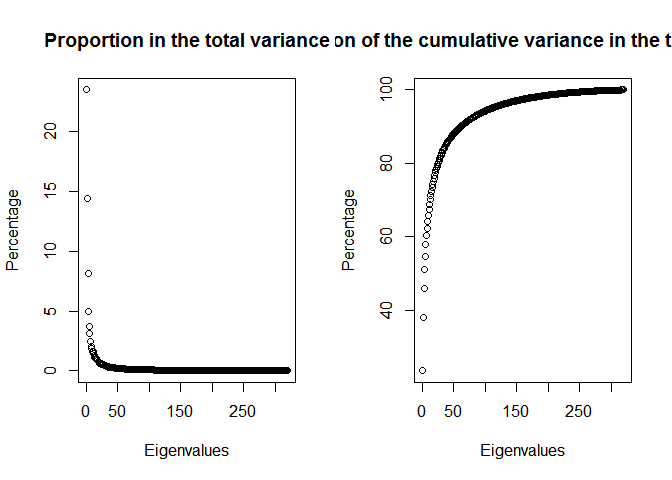
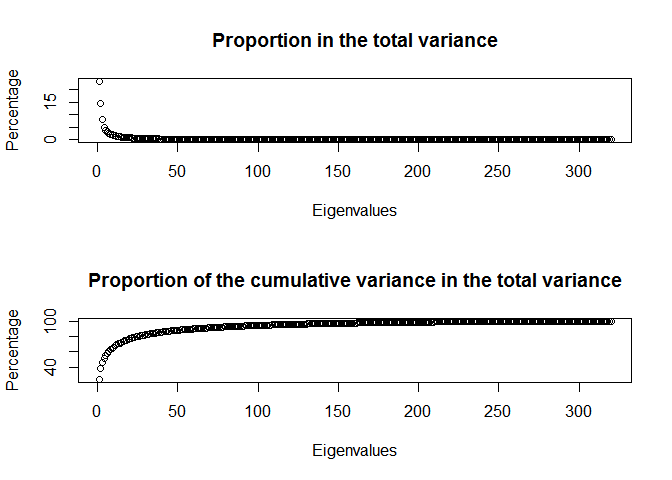
Readme 22

diff --git a/README.md b/README.md
@@ -1,5 +1,15 @@
 
-This project ..
+Introduction
+------------
+
+This repository provides an R script in file "eigenfaces.R" for the computer vision problem of human face recognition. Eigenfaces are ghostly face images (see below) which represent a set of eigenvectors used in this computer vision problem of human face recognition.
+
+![](Figures/unnamed-chunk-15-1.png)
+
+A set of eigenfaces can be generated by performing a mathematical process called principal component analysis (PCA) on a large set of face images. Eigenfaces can be considered as a set of "standardized face ingredients". Any face is a combination of these standard faces. For example, one's face might be composed of the average face plus 15% of eigenface 1, 60% of eigenface 2, and −5% of eigenface 3. These percentages are coefficients or weights which are then used to recognize faces. When a new face is presented for classification, its own weights are found by projecting the image onto the collection of eigenfaces. This provides a set of weights describing that face. These weights are then compared with the weights of each image face in order to find the closest match. The Euclidean distance between two vectors with weights is used.
+
+Libraries, functions and data
+-----------------------------
 
 Set working directory to source file location. Then, install and load libraries:
 
@@ -7,6 +17,8 @@ Set working directory to source file location. Then, install and load libraries:
 if(!(require(dplyr))){install.packages('dplyr')}
 library(dplyr)
 ```
+
+This script will use extensively the `%>%` operator of `dplyr`.
 
 Define a function to show face images:
 
@@ -21,7 +33,7 @@ showFace <- function(x){
   }
 ```
 
-The purpose of this function is to convert a vector with the image into a matrix and fix the issue concerning R function `image` which creates a grid with 90 degree counter-clockwise rotation of the conventional printed layout of a matrix.
+The purpose of this function is to convert a vector with the image into a matrix and "fix" R function `image` which present images with 90 degree counter-clockwise rotation.
 
 Load data with face images:
 
@@ -33,7 +45,7 @@ dataX <- "olivetti_X.csv" %>%
 
 The loaded csv file contains data of face images taken between April 1992 and April 1994 at AT&T Laboratories Cambridge. Each row contains data of one image quantized to 256 grey levels between 0 and 1. After loading, the data are converted into the data frame format.
 
-Display faces selected from dataset:
+Display the first 40 face images selected from dataset:
 
 ``` r
 par(mfrow=c(4, 10))
@@ -103,6 +115,9 @@ Center data:
 dataMatCen <- scale(dataMat, center = TRUE, scale = FALSE)
 ```
 
+Principal component analysis
+----------------------------
+
 We can either calculate a covariance matrix and its eigenvectors with eigenvalues (less numerically stable) or conduct singular value decomposition (svd - more numerically stable). This is the code to calculate the covariance matrix and its eigenvectors with eigenvalues:
 
 ``` r
@@ -112,7 +127,7 @@ eigVec <- eig$vectors
 eigVal <- eig$values 
 ```
 
-The eigenvectors (eigenfaces) of the covariance matrix as unit define axes of the principal components. The corresponding eigenvalues define variances along the axes of the principal components. This is the code to conduct singular value decomposition:
+The eigenvectors (eigenfaces) of the covariance matrix as unit define axes of the principal components. The corresponding eigenvalues define variances along the axes of the principal components. This is the code to conduct singular value decomposition which is a better choice:
 
 ``` r
 svd <- svd(dataMatCen)
@@ -120,14 +135,18 @@ eigVec <- svd$v
 eigVal <- svd$d^2/(ncol(dataMatCen)-1) 
 ```
 
-The eigenvectors of the covariance matrix are equal to the right singular vectors of svd. The eigenvalues of the covariance matrix are equal to the squared singular values divided by n-1, where n is the number of columns. Compute and display the proportions of variance explained by the principal components:
+The eigenvectors of the covariance matrix are equal to the right singular vectors of svd. The eigenvalues of the covariance matrix are equal to the squared singular values divided by n-1, where n is the number of columns.
+
+Compute and display the proportions of variance explained by the principal components:
 
 ``` r
 varProp <- eigVal/sum(eigVal) 
 varCumProp <- cumsum(eigVal)/sum(eigVal) 
-par(mfrow=c(1, 2))
-plot(varProp*100, xlab = "Eigenvalues", ylab = "Percentage" , main = "Proportion in the total variance")
-plot(varCumProp*100, xlab = "Eigenvalues", ylab = "Percentage" , main = "Proportion of the cumulative variance in the total variance")
+par(mfrow=c(2, 1))
+plot(varProp*100, xlab = "Eigenvalues", ylab = "Percentage", 
+     main = "Proportion in the total variance")
+plot(varCumProp*100, xlab = "Eigenvalues", ylab = "Percentage", 
+     main = "Proportion of the cumulative variance in the total variance")
 ```
 
 ![](Figures/unnamed-chunk-13-1.png)
@@ -135,11 +154,13 @@ plot(varCumProp*100, xlab = "Eigenvalues", ylab = "Percentage" , main = "Proport
 Select eigenvectors (eigenfaces):
 
 ``` r
-thresNum <- min(which(varCumProp > 0.95)) # Princiapal components explains at least 95% of the total variance
+thresNum <- min(which(varCumProp > 0.95)) 
 eigVecSel <-  eigVec[, 1:thresNum]
 ```
 
-Display first 16 eigenfaces:
+The selected principal components explain at least 95% of the total variance of the data.
+
+Display the first sixteen eigenfaces:
 
 ``` r
 par(mfrow=c(4, 4))
@@ -151,7 +172,7 @@ for (i in 1:16) {
 
 ![](Figures/unnamed-chunk-15-1.png)
 
-Project the data matrix onto the space spanned by the selected eigenvectors
+Project the data matrix - where each row vector represent a face image - onto the space spanned by the selected eigenvectors (eigenfaces):
 
 ``` r
 coefTrainFaces <- dataMatCen %*% eigVecSel %>% 
@@ -160,15 +181,17 @@ coefTrainFaces <- dataMatCen %*% eigVecSel %>%
 
 Coefficients (weights) for each training face are calculated. Each rowname with the coefficients will be the label of the corresponding face image.
 
-Plot the coefficients of the projection onto the eigenvectors for the first image:
+Plot the coefficients for the first face image being the result of the projection of this image onto the eigenvectors:
 
 ``` r
-barplot(coefTrainFaces[1, ], main = "Coefficients of the projection onto eigenvectors for the first image", ylim = c(-8, 4)) #
+barplot(coefTrainFaces[1, ], 
+    main = "Coefficients of the projection onto eigenvectors for the first image", 
+    ylim = c(-8, 4))
 ```
 
 ![](Figures/unnamed-chunk-17-1.png)
 
-Reconstruct the first image using coefficients and eigenvectors (eigenfaces)
+Show the first image and its reconstruction using the coefficients and eigenvectors (eigenfaces):
 
 ``` r
 par(mfrow=c(1, 2))
@@ -178,7 +201,12 @@ showFace((dataMat[1, ]))
   showFace()
 ```
 
-![](Figures/unnamed-chunk-18-1.png) Project the matrix with test data onto the space spanned by the eigenvectors determined by training data:
+![](Figures/unnamed-chunk-18-1.png)
+
+Face recognition
+----------------
+
+Project the matrix with test data onto the space spanned by the eigenvectors determined by training data:
 
 ``` r
 coefTestFaces<- testDataMat %>% # 
@@ -189,31 +217,60 @@ coefTestFaces<- testDataMat %>% #
 
 The test data are used. The vector of the average face of the training data is deducted from each row vector of the test data matrix before transposing the row vectors with test images onto the space spanned by the eigenvectors of the covariance matrix of the training data.
 
-Define a function and create an empty matrix to store test results:
+Define a function to calculate the Euclidean distance between two vectors with weights
 
 ``` r
 calDif <- function(x){
   ((x-coefTestSel) %*% t(x-coefTestSel)) %>%
     sqrt
 }
-testRes <- matrix(NA, nrow = 80, ncol = 3) %>%
-  data.frame %>%
-  `colnames<-`(c("Label of image", "Label identified in test", "Correct (1) / Wrong (0)"))
 ```
 
-Conduct test exercise for all test faces:
+This function will be used in a test exercise.
+
+Create an empty matrix to store the test results:
 
 ``` r
-for (i in 1:nrow(coefTestFaces)) { # Start loop for row vectors with test faces
-  coefTestSel <- coefTestFaces[i, , drop=FALSE] # Estract coefficients of i test face
-  difCoef <- apply(coefTrainFaces, 1, calDif) # Calculating the diffrence between the coefficients of i test face and each traing face
-  testRes[i, 1]  <- rownames(coefTestFaces)[i] # Provide the label of i test face
-  testRes[i, 2] <- rownames(coefTrainFaces)[which(min(difCoef)==difCoef)] # Provide the label of training face recording the minimum diffrence with i test face
-}
-
-testRes[, 3] <- ifelse(testRes[, 2] == testRes[, 1], 1, 0) # Provide 1 for correct and 0 for wrong results
-(shareCor <- sum(testRes[, 3])/nrow(testRes)) # Calclulate share of correct results
-#> [1] 0.9625
+testRes <- matrix(NA, nrow = 80, ncol = 3) %>%
+  data.frame %>%
+  `colnames<-`(c("Label of image", "Label identified in test",
+      "Correct (1) / Wrong (0)"))
 ```
 
-Calculate coefficients (weights) for each test face by projecting the row vectors with test images onto the space spanned by the eigenvector. Make each rowname with the coefficients the label of the corresponding face image.
+Conduct the calculations of the recognition exercise for all the test faces:
+
+``` r
+for (i in 1:nrow(coefTestFaces)) { 
+  coefTestSel <- coefTestFaces[i, , drop=FALSE]
+  difCoef <- apply(coefTrainFaces, 1, calDif)
+  testRes[i, 1]  <- rownames(coefTestFaces)[i]
+  testRes[i, 2] <- rownames(coefTrainFaces)[which(min(difCoef)==difCoef)]
+}
+```
+
+The weights of `i` test face are compared with the weights of each training face in order to find the closest match. The Euclidean distance between two vectors with weights is used.
+
+Present the test results for the first ten test faces:
+
+``` r
+testRes[, 3] <- ifelse(testRes[, 2] == testRes[, 1], 1, 0)
+testRes[1:10, ]
+#>    Label of image Label identified in test Correct (1) / Wrong (0)
+#> 1               1                        1                       1
+#> 2               1                        1                       1
+#> 3               2                        2                       1
+#> 4               2                        2                       1
+#> 5               3                       40                       0
+#> 6               3                        3                       1
+#> 7               4                        4                       1
+#> 8               4                        4                       1
+#> 9               5                        5                       1
+#> 10              5                       40                       0
+```
+
+Show the proportion of the successful recognition of the test faces:
+
+``` r
+(shareCor <- sum(testRes[, 3])/nrow(testRes))
+#> [1] 0.9625
+```
